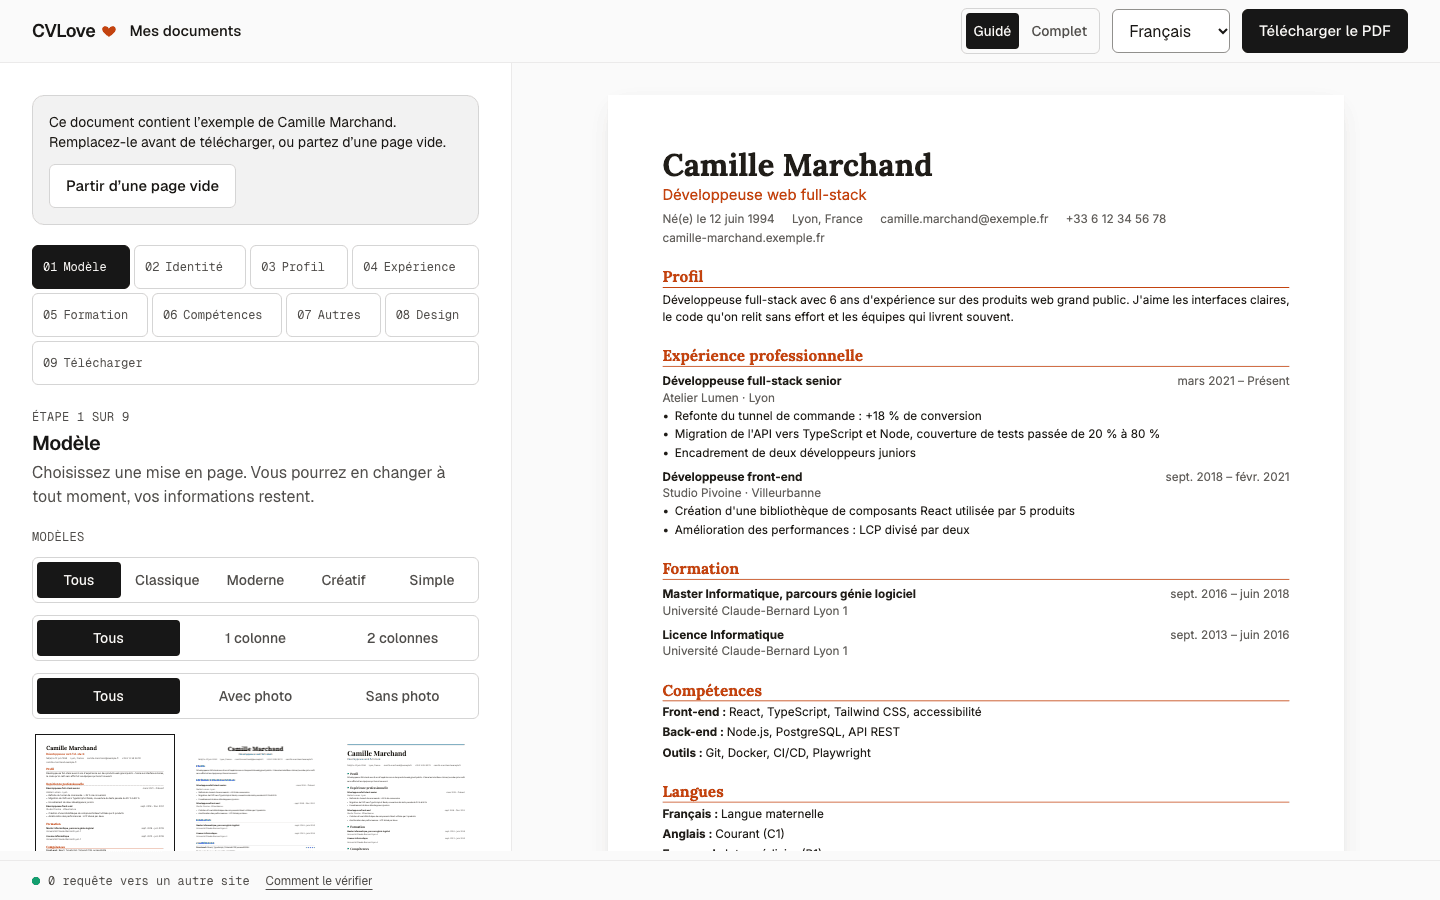
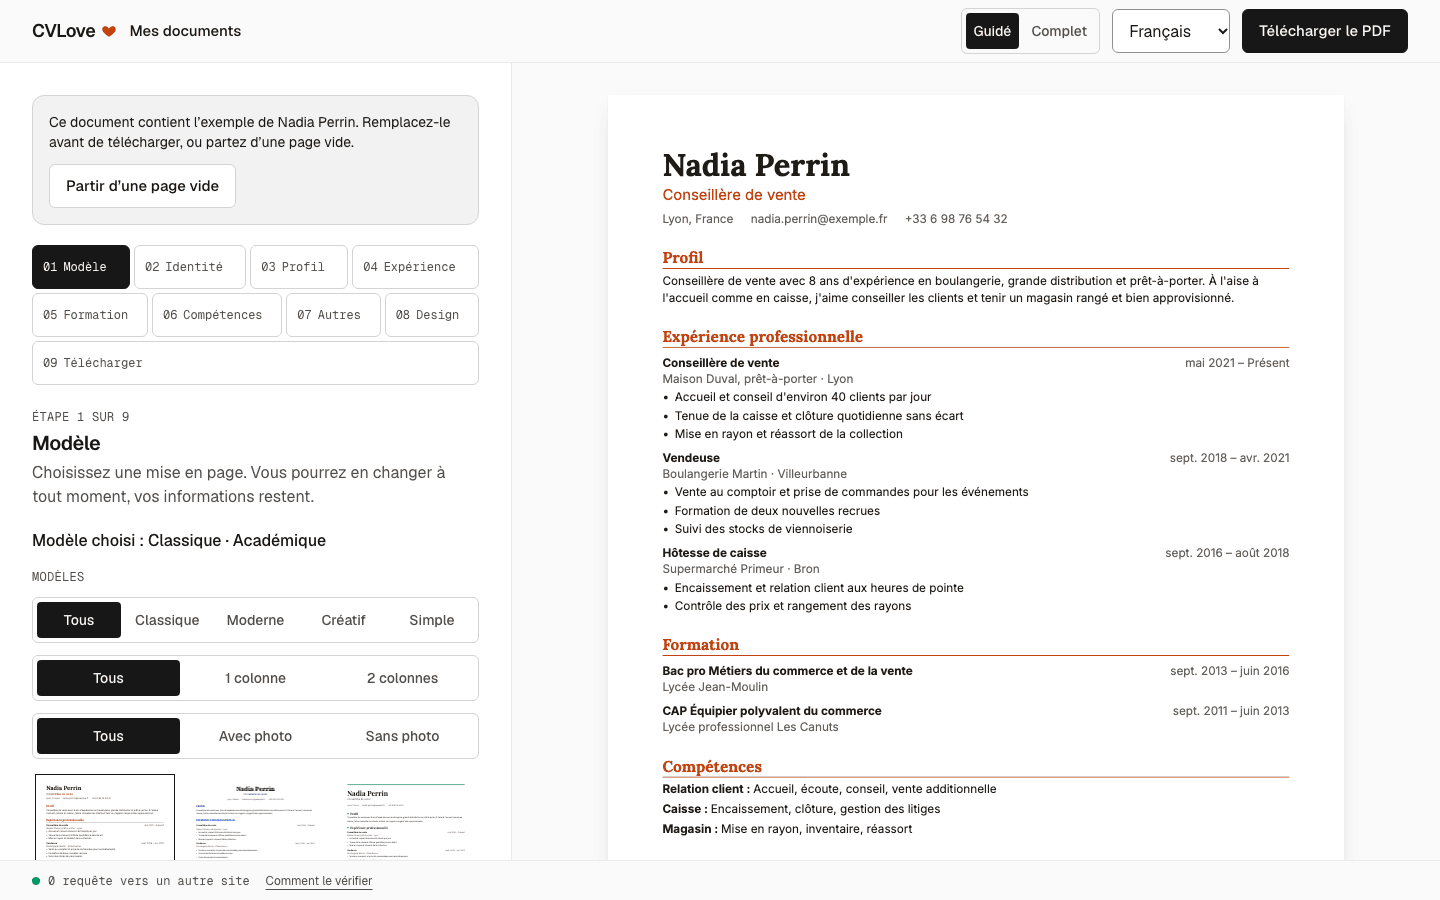
docs: README à jour (exemples, conseils, reprise), nouvelles captures et GIF en mode sombre
Claude-Session: https://claude.ai/code/session_01Rp16oaXrBYLp2tcwKsjLG2

diff --git a/README.fr.md b/README.fr.md
@@ -4,7 +4,7 @@
 
 CVLove est un générateur de CV gratuit et open source. Vous choisissez un modèle, vous remplissez vos informations et vous téléchargez un PDF. Il n'y a ni compte, ni publicité, ni serveur applicatif.
 
-![Parcours CVLove : choisir un modèle, remplir avec l'exemple, changer de couleur, télécharger](docs/images/demo.gif)
+![Parcours CVLove : choisir un modèle, remplir avec un exemple, changer de couleur, télécharger (mode sombre)](docs/images/demo.gif)
 
 ## Captures
 
@@ -33,7 +33,9 @@ Pour le vérifier, ouvrez les outils du navigateur (F12, ou Cmd+Option+I sur Mac
 ## Fonctionnalités
 
 - Accueil sur `#/`, éditeur sur `#/editeur`, liste des documents sur `#/documents`, lettre de motivation sur `#/lettre`.
-- Éditeur à deux modes : Guidé (9 étapes) ou Complet (un seul formulaire).
+- Éditeur à deux modes : Guidé (9 étapes, avec de courts conseils pour un premier CV) ou Complet (un seul formulaire).
+- Tant que le CV est vide, l’aperçu montre un exemple dans le modèle choisi. Trois exemples peuvent être chargés : vente et accueil, premier emploi, informatique.
+- L’accueil propose de reprendre le CV en cours.
 - 36 modèles, soit 12 mises en page avec 3 styles chacune. Changer de modèle conserve vos données.
 - 7 couleurs d'accent et un sélecteur de couleur libre, 6 paires de polices, taille du texte, interligne, marges, A4 ou Letter, forme de la photo, affichage des niveaux de compétence.
 - Sections : profil, expérience, formation, compétences, langues, projets, centres d'intérêt, section libre. Vous pouvez les ajouter, les masquer, les renommer et les réordonner.

diff --git a/README.md b/README.md
@@ -4,7 +4,7 @@
 
 CVLove is a free, open source résumé builder. You pick a template, fill in your details and download a PDF. There is no account, no ads and no backend.
 
-![CVLove walkthrough: pick a template, fill with the sample, change color, download](docs/images/demo.gif)
+![CVLove walkthrough: pick a template, fill with a sample, change color, download (dark mode)](docs/images/demo.gif)
 
 ## Screenshots
 
@@ -33,7 +33,9 @@ To check it yourself, open the browser developer tools (F12, or Cmd+Option+I on 
 ## Features
 
 - Home at `#/`, editor at `#/editeur`, document list at `#/documents`, cover letter at `#/lettre`.
-- Editor with two modes: Guided (9 steps) or Full (one form).
+- Editor with two modes: Guided (9 steps, with short tips for a first CV) or Full (one form).
+- While your CV is empty, the preview shows a sample in the template you picked. Three samples can be loaded: retail and front desk, first job, software.
+- The home page offers to pick up the CV you were working on.
 - 36 templates, made of 12 layouts with 3 styles each. Switching template keeps your data.
 - 7 accent colors plus a free color picker, 6 font pairs, text size, line height, margins, A4 or Letter, photo shape, skill level display.
 - Sections: profile, experience, education, skills, languages, projects, interests, free section. You can add, hide, rename and reorder them.
